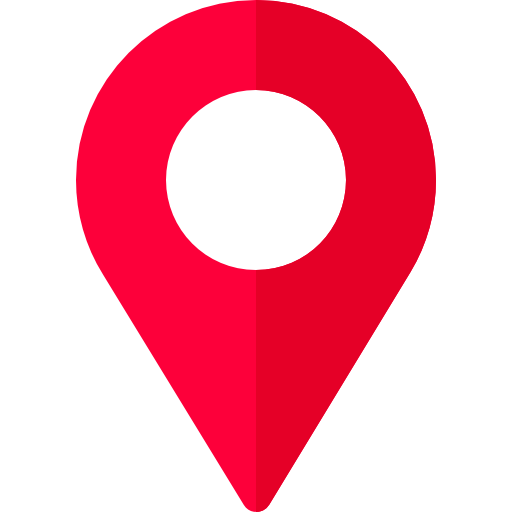
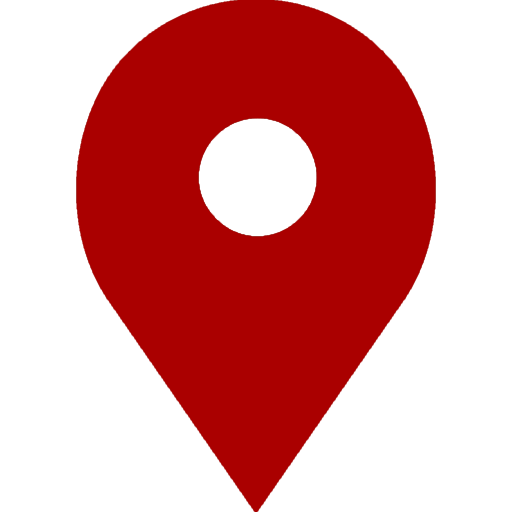
fix: fixed missions not showing

diff --git a/mission_system/missionService.js b/mission_system/missionService.js
@@ -5,7 +5,7 @@ const computeMissionScore = require("./scoringService");
 const buildContext = require("./contextService");
 const Mission = require('../models/missione');
 
-async function generateUserMission(pois, lat, lng, count = 5) {
+async function generateUserMissions(pois, lat, lng, count = 5) {
     const missioniPredefinite = await Mission.find({ predefinita: true });
     const context = await buildContext(lat, lng);
 
@@ -43,19 +43,6 @@ async function generateUserMission(pois, lat, lng, count = 5) {
     }
 
     return selected;
-}
-
-async function generateUserMissions(pois, lat, lng, count = 5) {
-    const missions = [];
-
-    for (let i = 0; i < count; i += 1) {
-        const mission = await generateUserMission(pois, lat, lng);
-        if (mission) {
-            missions.push(mission);
-        }
-    }
-
-    return missions;
 }
 
 function weightedRandom(missions) {

diff --git a/frontend/css/get_missions.css b/frontend/css/get_missions.css
@@ -277,6 +277,11 @@ button,
     .summary-grid {
         grid-template-columns: 1fr;
     }
+    
+    .active-mission {
+        align-items: stretch;
+        flex-direction: column;
+    }
 }
 
 .mission-sidebar {

diff --git a/frontend/js/login.js b/frontend/js/login.js
@@ -40,7 +40,7 @@ document.getElementById("loginForm").addEventListener("submit", async (e) => {
         // login ok
         localStorage.setItem("token", data.token);
 
-        window.location.href = "/home/homepage";
+        window.location.href = "/get_missions.html";
 
     } catch (err) {
         console.log("CATCH:", err.message);

diff --git a/routes/routeMission.js b/routes/routeMission.js
@@ -78,6 +78,8 @@ async function generaMissioni(lat, lng) {
         };
     }).filter(Boolean);
 
+    console.log(missions);
+
     return missions;
 }
 